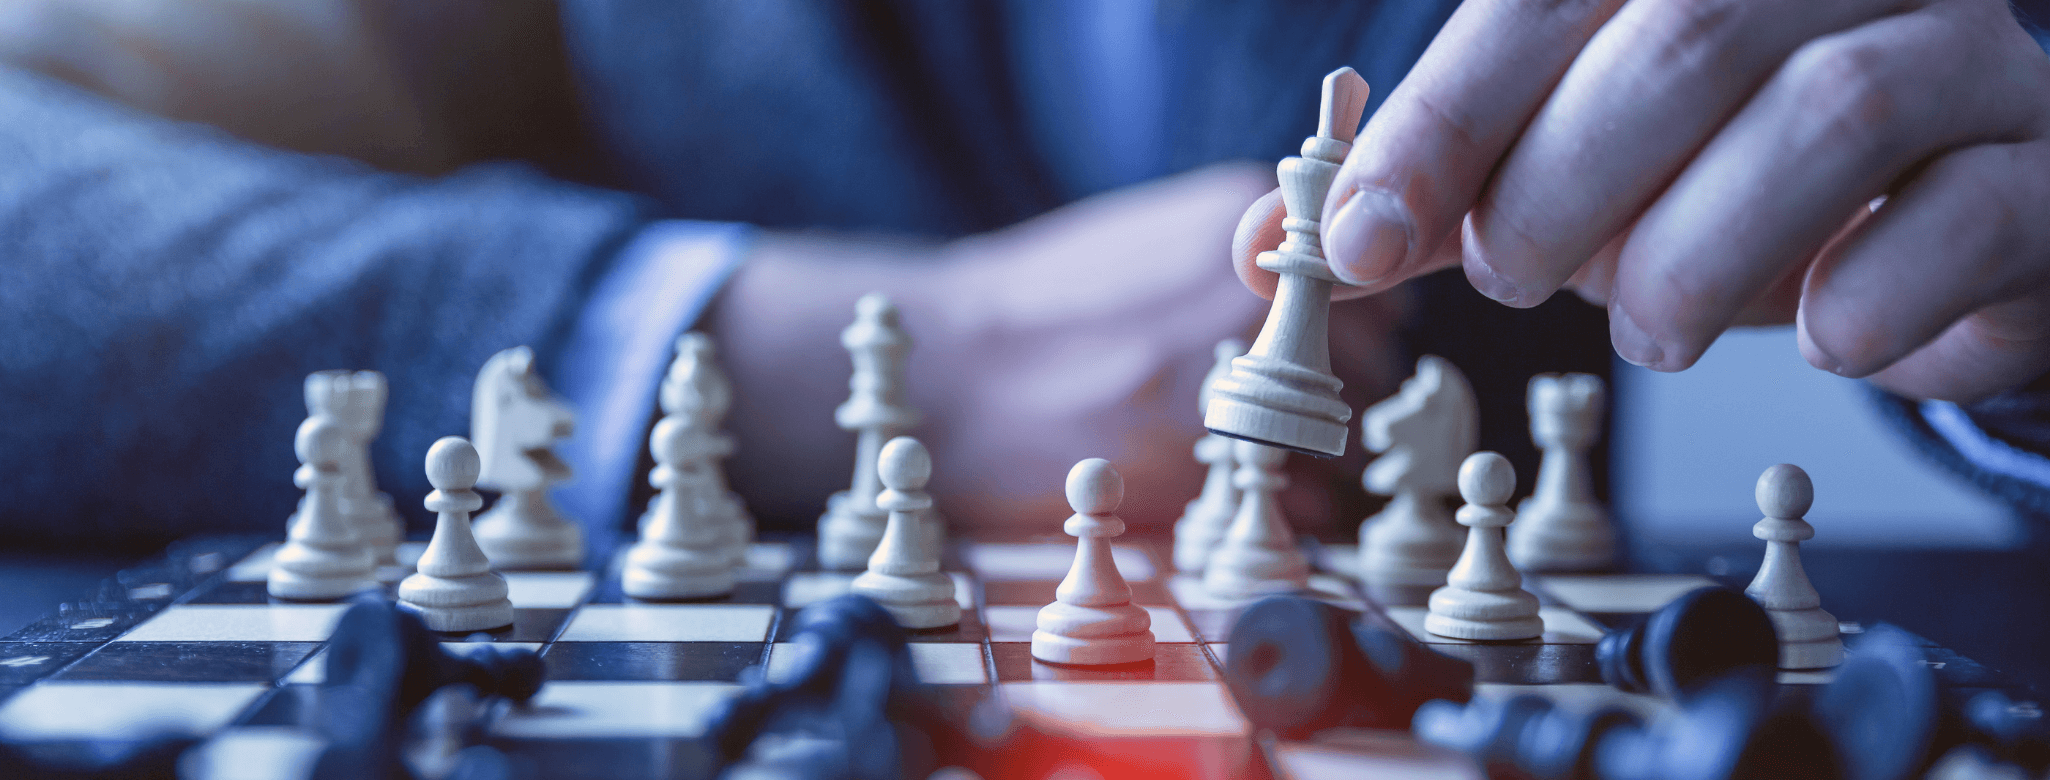
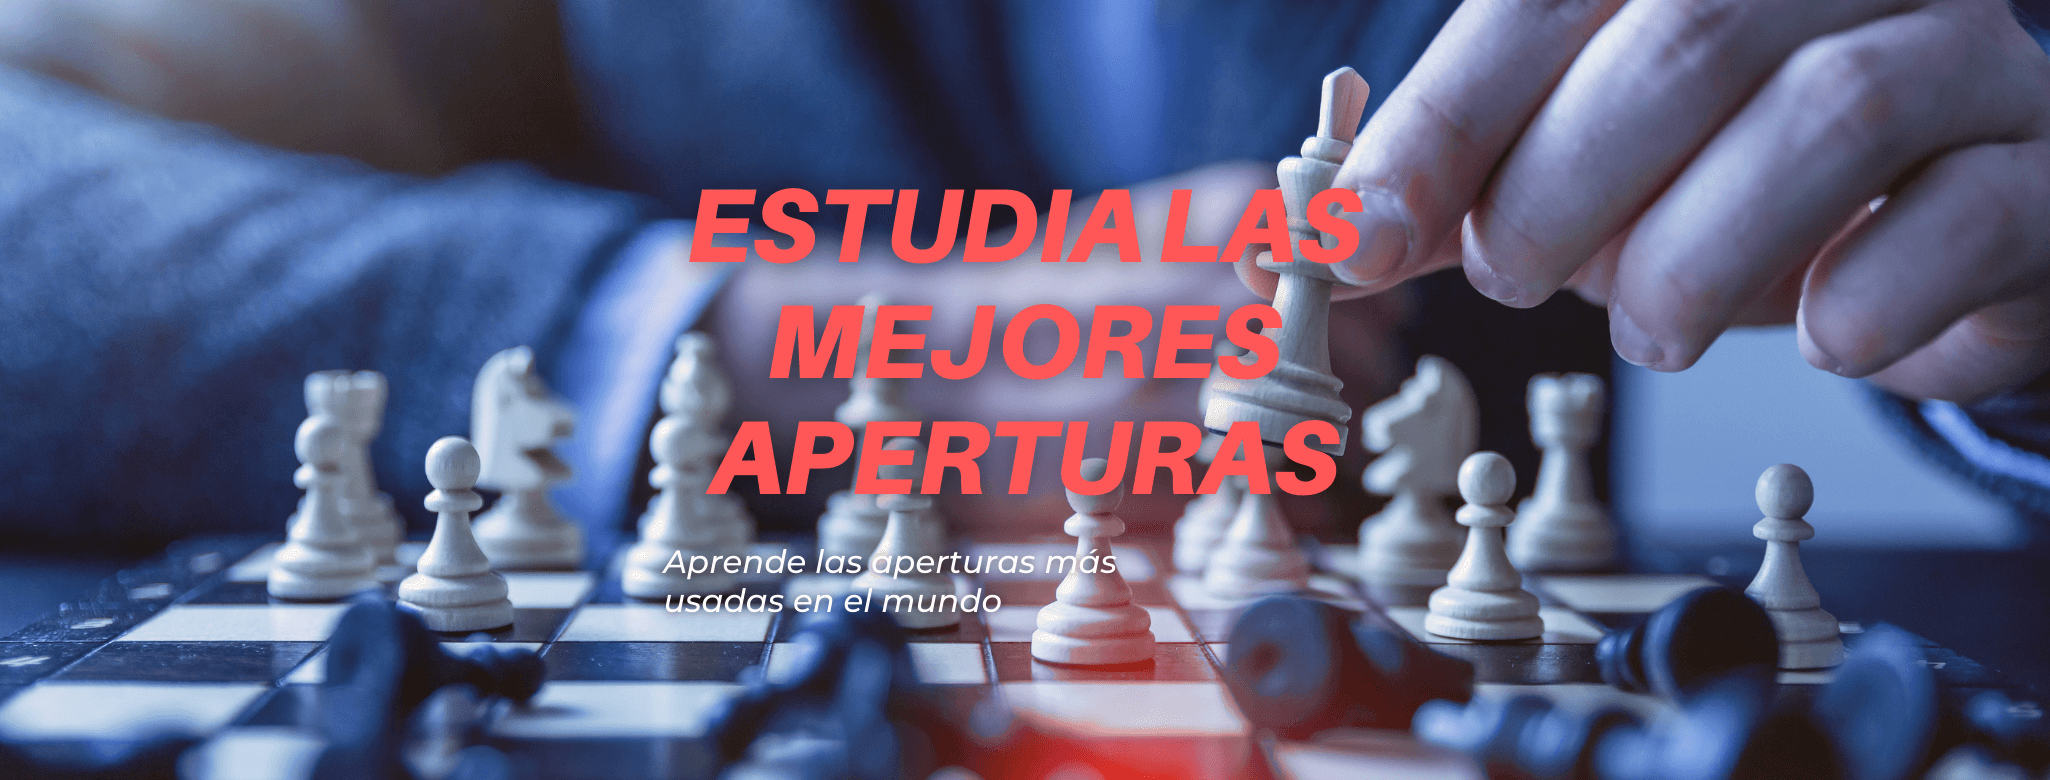
terminé carrusel

diff --git a/index.html b/index.html
@@ -43,48 +43,26 @@
     </header>
     <main>
         <!-- Carousel -->
-        <section id="carouselCaptions" class="carousel slide" data-ride="carousel">
-            <ol class="carousel-indicators">
-                <li data-target="#carouselCaptions" data-slide-to="0" class="active"></li>
-                <li data-target="#carouselCaptions" data-slide-to="1"></li>
-                <li data-target="#carouselCaptions" data-slide-to="2"></li>
-                <li data-target="#carouselCaptions" data-slide-to="3"></li>
-            </ol>
+        <section id="carouselFade" class="carousel slide carousel-fade" data-ride="carousel">
             <div class="carousel-inner">
                 <div class="carousel-item active">
-                    <img src="img/carousel/slider1.png" class="d-block w-100" alt="imagen de carrusel">
-                    <div class="carousel-caption d-none d-md-block texto-borde">
-                        <h1 class="text-warning display-1 mb-5">Bienvenido al Tablero de Machingo</h1>
-                        <h2 class="text-light">Un espacio dedicado a los amantes de este hermoso juego</h2>
-                    </div>
+                    <img src="img/carousel/slider0.png" class="d-block w-100 carousel-sm-responsive" alt="imagen de carrusel">
                 </div>
                 <div class="carousel-item">
-                    <img src="img/carousel/slider1.png" class="d-block w-100" alt="imagen de carrusel">
-                    <div class="carousel-caption d-none d-md-block texto-borde">
-                        <h1 class="text-warning display-1 mb-5">Estudia las mejores aperturas</h1>
-                        <h2 class="text-light">Aprende las aperturas más usadas en el mundo</h2>
-                    </div>
+                    <img src="img/carousel/slider1.png" class="d-block w-100 carousel-sm-responsive" alt="imagen de carrusel">
                 </div>
                 <div class="carousel-item">
-                    <img src="img/carousel/slider2.png" class="d-block w-100" alt="imagen de carrusel">
-                    <div class="carousel-caption d-none d-md-block texto-borde">
-                        <h1 class="text-warning display-1 mb-5">Observa a los mejores del mundo</h1>
-                        <h2 class="text-light">Analiza las partidas de los grandes maestros</h2>
-                    </div>
+                    <img src="img/carousel/slider2.png" class="d-block w-100 carousel-sm-responsive" alt="imagen de carrusel">
                 </div>
                 <div class="carousel-item">
-                    <img src="img/carousel/slider3.png" class="d-block w-100" alt="imagen de carrusel">
-                    <div class="carousel-caption d-none d-md-block texto-borde">
-                        <h1 class="text-warning display-1 mb-5">Conoce a otros jugadores</h1>
-                        <h2 class="text-light">Únete a esta increíble comunidad</h2>
-                    </div>
+                    <img src="img/carousel/slider3.png" class="d-block w-100 carousel-sm-responsive" alt="imagen de carrusel">
                 </div>
             </div>
-            <a class="carousel-control-prev" href="#carouselCaptions" role="button" data-slide="prev">
+            <a class="carousel-control-prev" href="#carouselFade" role="button" data-slide="prev">
                 <span class="carousel-control-prev-icon" aria-hidden="true"></span>
                 <span class="sr-only">Previous</span>
             </a>
-            <a class="carousel-control-next" href="#carouselCaptions" role="button" data-slide="next">
+            <a class="carousel-control-next" href="#carouselFade" role="button" data-slide="next">
                 <span class="carousel-control-next-icon" aria-hidden="true"></span>
                 <span class="sr-only">Next</span>
             </a>

diff --git a/css/style.css b/css/style.css
@@ -11,3 +11,10 @@
     -webkit-text-stroke: 1px black;
     color: transparent;
 }
+
+@media all and (max-width: 576px) {
+    .carousel-sm-responsive {
+        object-fit: cover;
+        height: 187px;
+    }
+}
